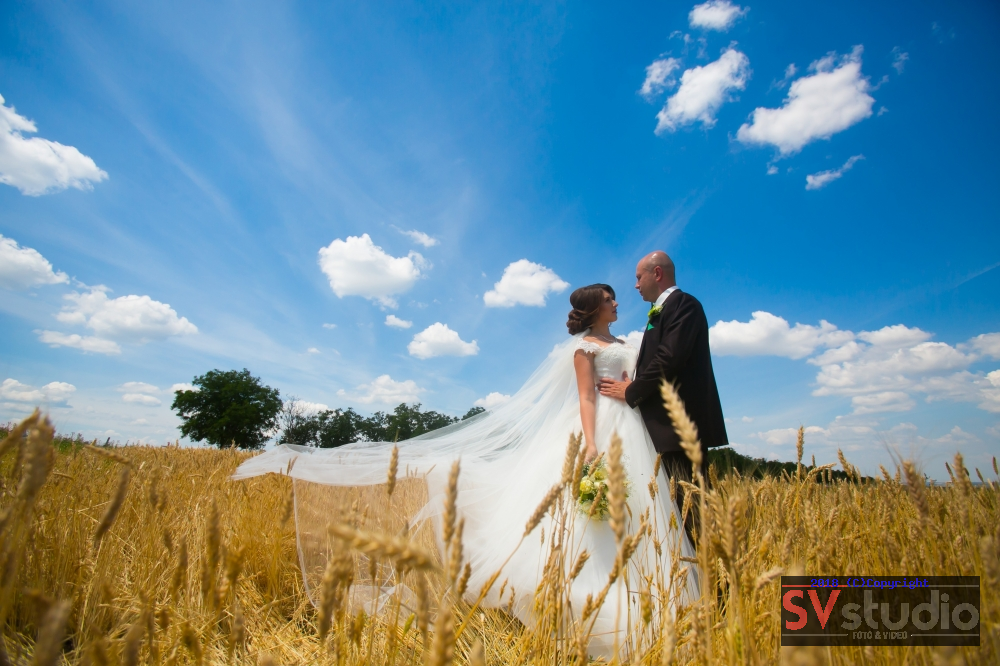
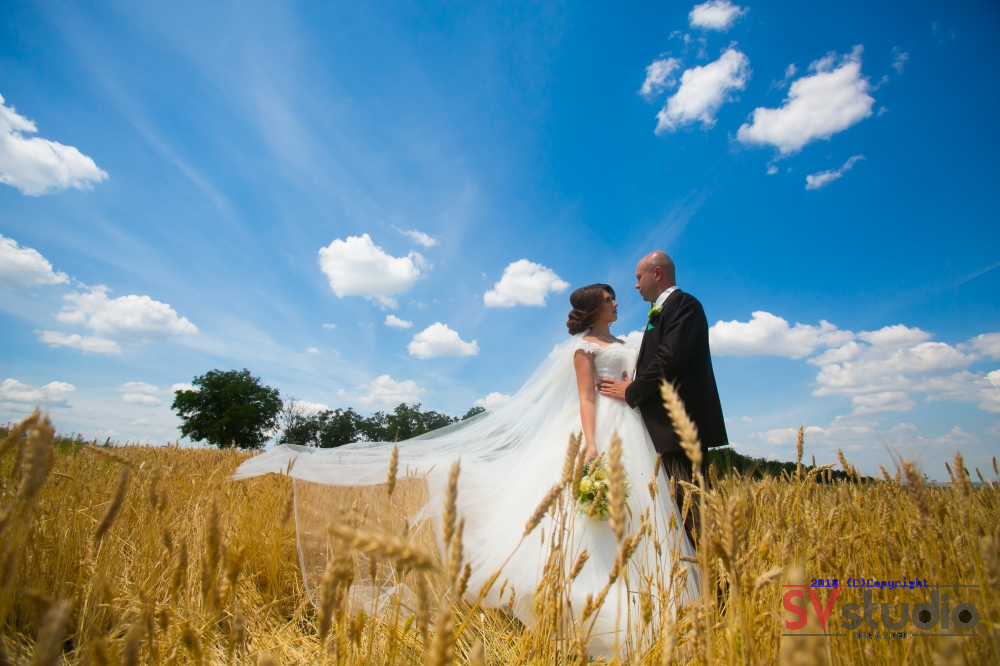
dnkd

Changed region(s): [[0.775, 0.8408, 0.992, 0.991]]

diff --git a/home/ubuntu/workspace/stamp2.php b/home/ubuntu/workspace/stamp2.php
@@ -15,7 +15,7 @@ imagestring($stamp, 3, 30, 0,  date("Y"), 0x0000FF);
         $white = imagecolorallocate($stamp, 255, 255, 255); 
         imagefill($stamp,0,0,$white);
         
-        //imagecolortransparent($stamp, $background);
+        imagecolortransparent($stamp, $white);
 
         // turning off alpha blending (to ensure alpha channel information is preserved, rather than removed (blending with the rest of the image in the form of black))
         imagealphablending($stamp, false);

diff --git a/home/ubuntu/workspace/README.md b/home/ubuntu/workspace/README.md
@@ -1,8 +1,8 @@
-                           _           _                                 _    
- _ __ ___  _   _  __      _| |__   __ _| |_ ___ _ __ _ __ ___   __ _ _ __| | __
-| '_ ` _ \| | | | \ \ /\ / / '_ \ / _` | __/ _ \ '__| '_ ` _ \ / _` | '__| |/ /
-| | | | | | |_| |  \ V  V /| | | | (_| | ||  __/ |  | | | | | | (_| | |  |   < 
-|_| |_| |_|\__, |___\_/\_/ |_| |_|\__,_|\__\___|_|  |_| |_| |_|\__,_|_|  |_|\_\
-           |___/_____|                                                         
+#                           _           _                                 _    
+# _ __ ___  _   _  __      _| |__   __ _| |_ ___ _ __ _ __ ___   __ _ _ __| | __
+#| '_ ` _ \| | | | \ \ /\ / / '_ \ / _` | __/ _ \ '__| '_ ` _ \ / _` | '__| |/ /
+#| | | | | | |_| |  \ V  V /| | | | (_| | ||  __/ |  | | | | | | (_| | |  |   < 
+#|_| |_| |_|\__, |___\_/\_/ |_| |_|\__,_|\__\___|_|  |_| |_| |_|\__,_|_|  |_|\_\
+#           |___/_____|                                                         
            
            pure 5.5 > PHP djpolmd(C)2017
